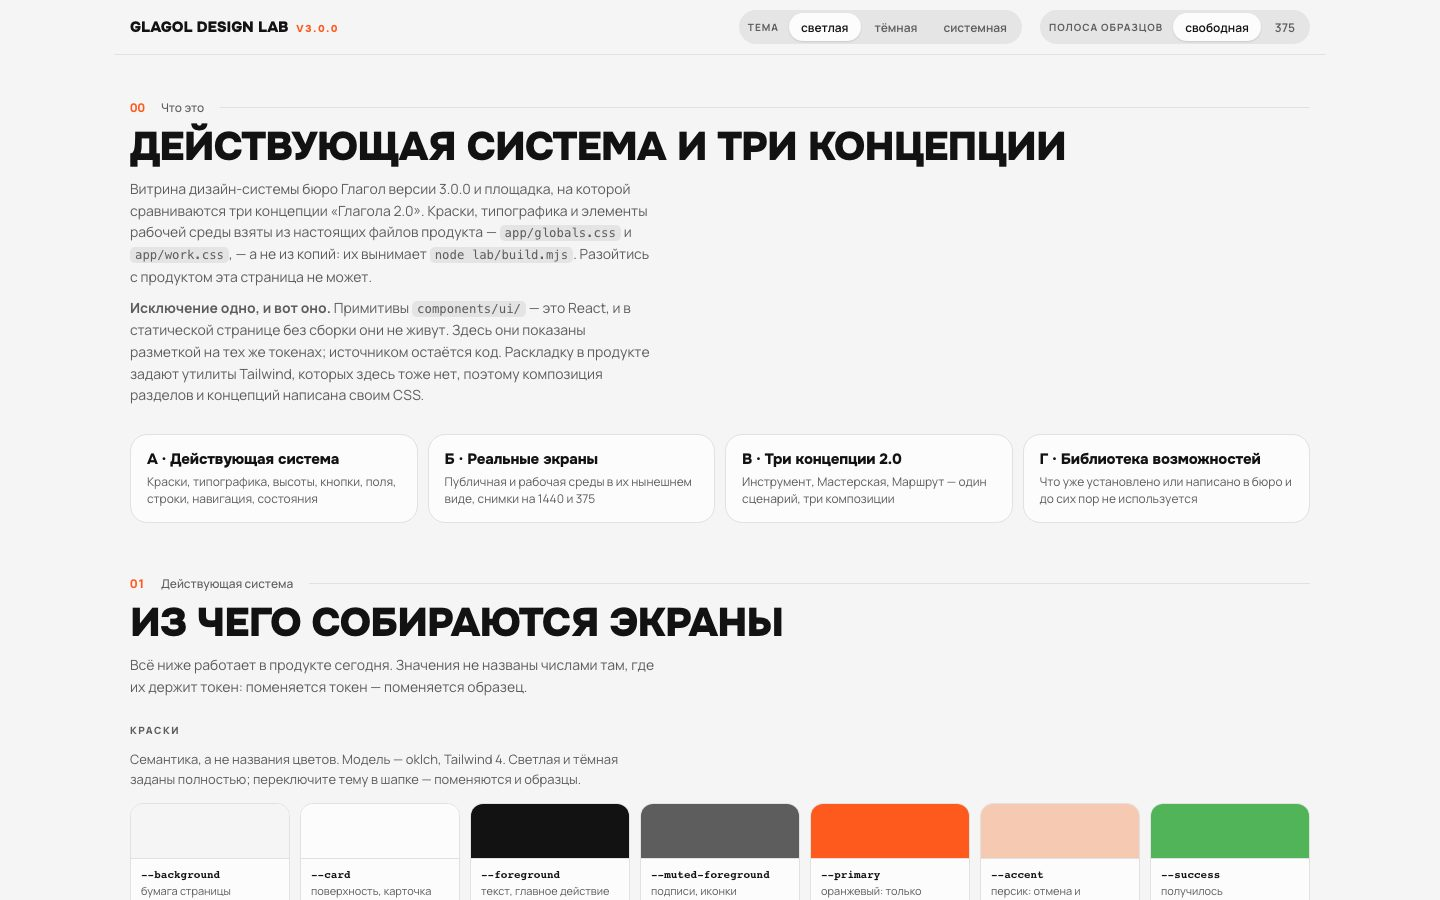
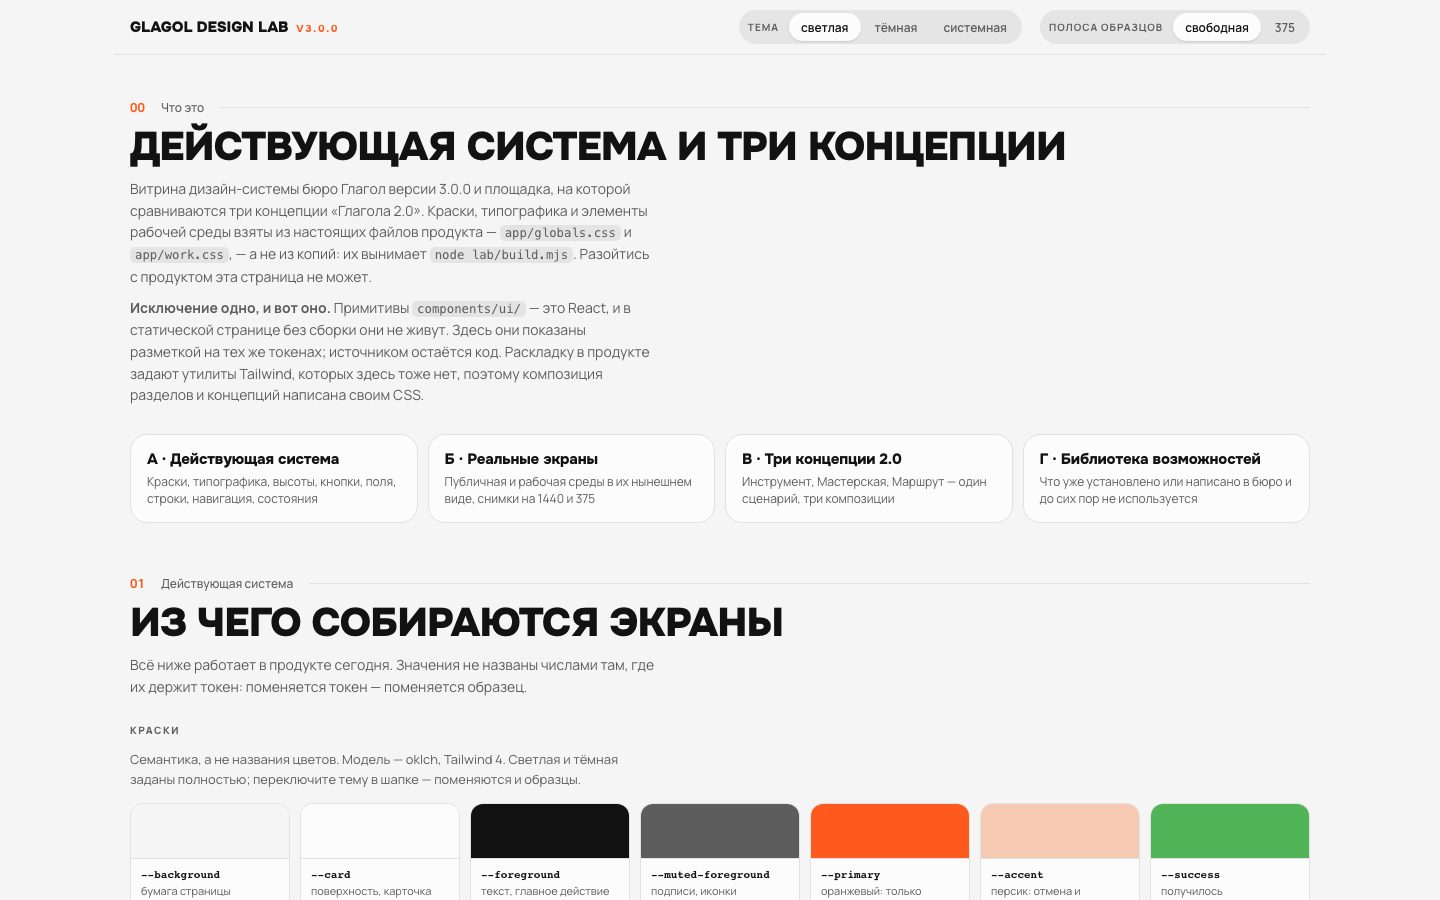
Сброс кнопки: витрина больше не рисует рамку, которой в проде нет
Артём выбирал главное действие по снимку и отказался от варианта из-за
обводки вокруг кнопки. Обводки в продукте нет: `.work-btn` не сбрасывает
рамку, в проде это делает preflight Tailwind, а на статической странице
Tailwind нет — браузер рисовал свои `2px outset`. Варианты 1 и 3 были одной
и той же чёрной капсулой, и выбор между ними сводился к росту.

Сброс прописан явно в review.css, lab.css и трёх страницах концепций. Lab
показывал ту же ложную рамку с 01.11.26 — обе страницы переопубликованы.

Решение А1 записано в review/РЕШЕНИЯ.md: чёрная капсула, рост 36.
Начертание и рост кнопки под формой уточняются.

diff --git a/lab/lab.css b/lab/lab.css
@@ -7,6 +7,26 @@
  * самой витрины и подписи к образцам.
  */
 
+/*
+ * Сброс кнопки. В продукте его делает preflight Tailwind, здесь Tailwind нет —
+ * и браузер рисовал образцам свою рамку `2px outset`. Полка показывала
+ * `.work-btn` обведённой, хотя в проде обводки нет: витрина врала о продукте
+ * ровно в том месте, ради которого её смотрят (найдено 01.11.26, когда Артём
+ * выбирал кнопку по снимку и отказался от варианта из-за этой рамки).
+ */
+button,
+input,
+select,
+textarea {
+  font: inherit;
+  color: inherit;
+}
+button {
+  margin: 0;
+  border: 0;
+  background: transparent;
+}
+
 /* ── Оболочка ───────────────────────────────────────────────────────── */
 
 .lab {

diff --git a/review/review.css b/review/review.css
@@ -16,6 +16,26 @@ body {
   color: var(--foreground);
 }
 
+/*
+ * Сброс кнопки. В продукте его делает preflight Tailwind, здесь Tailwind нет —
+ * и браузер рисовал кнопкам свою рамку `2px outset`. На снимках `.work-btn`
+ * выглядела обведённой, хотя в проде обводки нет, и Артём 01.11.26 выбрал
+ * вариант главного действия по этой несуществующей рамке. Это ровно та цена,
+ * которую платит витрина, когда врёт о продукте: решение принимается по ней.
+ */
+button,
+input,
+select,
+textarea {
+  font: inherit;
+  color: inherit;
+}
+button {
+  margin: 0;
+  border: 0;
+  background: transparent;
+}
+
 .св {
   --поле: max(16px, env(safe-area-inset-left));
   max-width: 1120px;

diff --git a/lab/concept-b.html b/lab/concept-b.html
@@ -36,6 +36,13 @@ html, body { margin: 0; padding: 0 }
  * строки вместо двух.
  */
 [hidden] { display: none !important }
+/*
+ * Сброс кнопки. В продукте его делает preflight Tailwind, здесь Tailwind нет —
+ * и браузер рисовал кнопкам свою рамку `2px outset`: на странице `.work-btn`
+ * выглядела обведённой, хотя в проде обводки нет (01.11.26).
+ */
+button, input, select, textarea { font: inherit; color: inherit }
+button { margin: 0; border: 0; background: transparent }
 body { padding-top: env(safe-area-inset-top, 0px); min-height: 100vh }
 
 .bar {

diff --git a/lab/concept-c.html b/lab/concept-c.html
@@ -35,6 +35,13 @@ html, body { margin: 0; padding: 0 }
  * строки вместо двух.
  */
 [hidden] { display: none !important }
+/*
+ * Сброс кнопки. В продукте его делает preflight Tailwind, здесь Tailwind нет —
+ * и браузер рисовал кнопкам свою рамку `2px outset`: на странице `.work-btn`
+ * выглядела обведённой, хотя в проде обводки нет (01.11.26).
+ */
+button, input, select, textarea { font: inherit; color: inherit }
+button { margin: 0; border: 0; background: transparent }
 body { padding-top: env(safe-area-inset-top, 0px); min-height: 100vh }
 
 .bar {

diff --git a/lab/concept-a.html b/lab/concept-a.html
@@ -32,6 +32,13 @@ html, body { margin: 0; padding: 0 }
  * строки вместо двух.
  */
 [hidden] { display: none !important }
+/*
+ * Сброс кнопки. В продукте его делает preflight Tailwind, здесь Tailwind нет —
+ * и браузер рисовал кнопкам свою рамку `2px outset`: на странице `.work-btn`
+ * выглядела обведённой, хотя в проде обводки нет (01.11.26).
+ */
+button, input, select, textarea { font: inherit; color: inherit }
+button { margin: 0; border: 0; background: transparent }
 body {
   padding-top: env(safe-area-inset-top, 0px);
   min-height: 100vh;

diff --git a/review/РЕШЕНИЯ.md b/review/РЕШЕНИЯ.md
@@ -1,0 +1,42 @@
+# Решения по сверке
+
+Что Артём выбрал, глядя на картинки. Каждое — с датой и причиной: решение без
+причины через неделю выглядит придиркой, и его перестают соблюдать.
+
+Здесь только выбор. Перенос выбранного в `app/work.css`, `docs/COMPONENTS.md` и
+проверки — отдельной работой, после того как пройдём все расхождения.
+
+---
+
+## А1 · Главное действие экрана — 01.11.2026
+
+**Решено: чёрная капсула. Рост 36.**
+
+Артём выбрал вариант 3 («форма входа») словами «дурацкая обводка не нужна —
+мб только рост сделать 36».
+
+**Найдено при разборе выбора.** Обводки, из-за которой вариант был выбран, в
+продукте нет. Её рисовал браузер: `.work-btn` не сбрасывает рамку кнопки, в
+продукте это делает preflight Tailwind, а на статической странице Tailwind нет.
+Так что варианты 1 и 3 — одна и та же чёрная капсула, и выбор между ними
+сводился к росту и начертанию. Страница сверки и Design Lab исправлены в тот же
+день: сброс кнопки прописан явно в `review/review.css`, `lab/lab.css` и трёх
+страницах концепций.
+
+Цена ошибки названа вслух, потому что она общая: **витрина, которая врёт о
+продукте, принимает решение за человека.** Это то же правило, из-за которого
+Lab собирает токены из файлов продукта, а не копирует их.
+
+**Что это значит дальше.**
+
+- Главное действие — чёрное (`--ink` на `--paper`, в тёмной теме белое).
+  Оранжевый остаётся краской внимания и знаком бюро, а не второй главной
+  кнопкой.
+- Имена классов перестают врать: сегодня «главная» `--main` — та, которой в
+  кабинете нет ни разу, а работает «второстепенная» `--second`.
+- Рост 36 — тот же, что у всей лестницы бюро. На телефоне 44 по области
+  касания (см. А7).
+
+**Осталось уточнить:** начертание кнопки (13/700 как сейчас, или крупнее и
+легче) и рост кнопки под формой во всю ширину, где 36 на телефоне ниже
+минимума касания.
